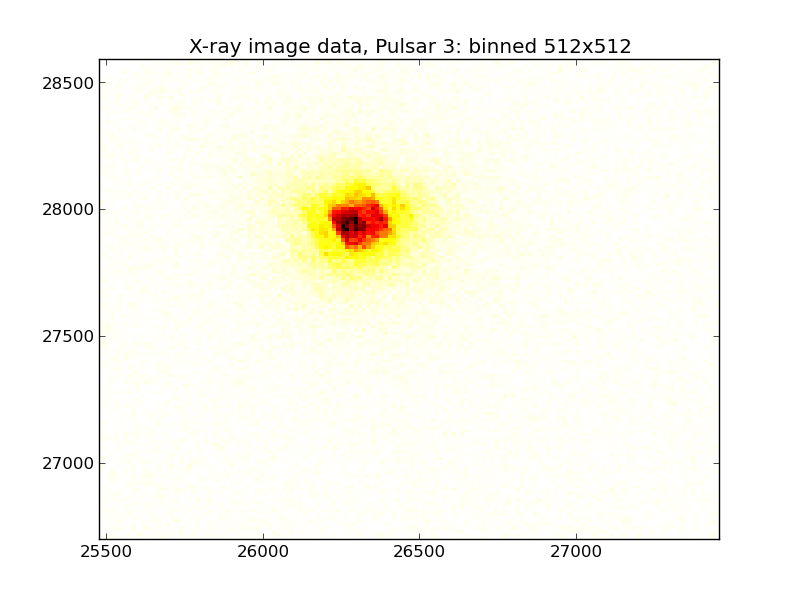
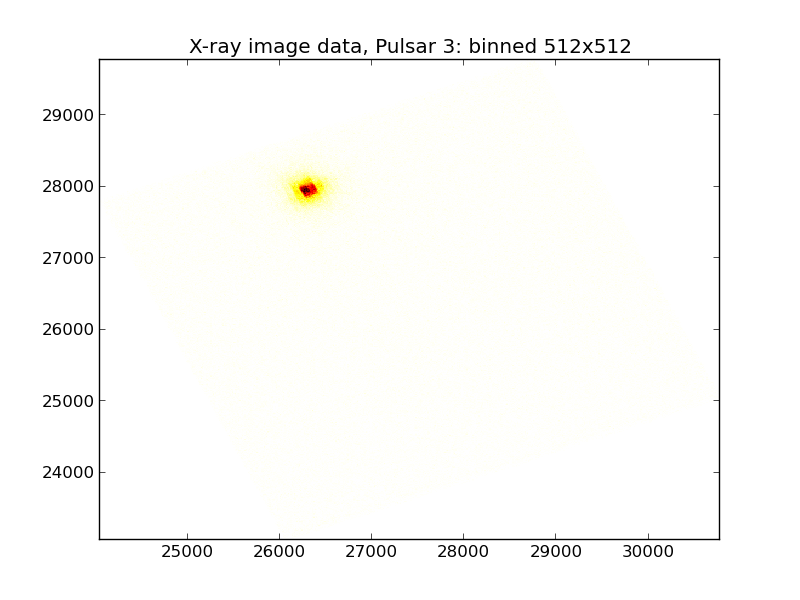
Things work

diff --git a/pulsar_period.py b/pulsar_period.py
@@ -7,35 +7,43 @@ from pylab import *
 from pulsar_select import *
 
 # Coordinates of pulsar center, and radius of aperture
-x0 = 26415.
-y0 = 27684.
-r = 150.3
+x0 = 26276.
+y0 = 27943.
+r = 150.0
 
 # Read in pulsar signal within the aperture
 t, x, y, E = pulsar_select(x0, y0, r)
 
-# Brute-force method - bin the data into 1024 bins
-t_hist = histogram(t, bins = 4096)
+# Making the time a little easier to understand by switching to 
+# relative time from the first observed event
+t_rel = t - min(t)
+
+# Making bins of 1/100 second
+obs_time = max(t_rel)
+Nbins = math.ceil(obs_time)*100
+
+# Bin the time data in 1/100 second bins
+t_hist = histogram(t_rel, bins = Nbins, range=(0, math.ceil(obs_time)))
 counts = t_hist[0]
 bins = t_hist[1]
-
-# Each bin is a period of time, figure out what that period of time is
-time_per_bin = (max(t) - min(t)) / 1024.
 
 # Compute FFT of the counts
 Y = fft(counts)
 n = len(Y)
-power = abs(Y[1:(n/2)])**2
-nyquist = 1./2
-freq = scipy.array(range(n/2))/(n/2.0)*nyquist
-period = 1./freq
+power = abs(Y[1:(n-1)/2])**2
+F = fftfreq(n)
+period = 1./F
 
+# Find the period corresponding to the max of the power
+pulsar_period = period[argmax(power)]/100.
+print 'Pulsar period =', pulsar_period, '(s)'
 
 # Plot figure
 fig = plt.figure()
 ax = fig.add_subplot(111)
-pgram = ax.plot(period[1:len(period)],power)
+pgram = ax.plot(period[1:len(power)+1]/100.,power)
+ax.set_xscale('log')
+#ax.set_xlim([1.0E-2, 1.0E0])
 ax.set_title('Pulsar 3 Periodogram')
 show()
 fig.savefig('pgram')
-

diff --git a/plot_image.py b/plot_image.py
@@ -4,11 +4,18 @@
 
 from pylab import *
 from read_pulsar import *
+from pulsar_select import *
 
 pulsar_data = 'pulsar3.lis'
 
 # read_pulsar returns time (t), x, y, and energy (E) as vectors
-t, x, y, E = read_pulsar(pulsar_data)
+#t, x, y, E = read_pulsar(pulsar_data)
+# Alternately, just plot the selected points
+#x0 = 26276.
+#y0 = 27943.
+#r = 150.0
+
+t, x, y, E = pulsar_select(x0, y0, r)
 
 fig = plt.figure()
 ax = fig.add_subplot(111)
